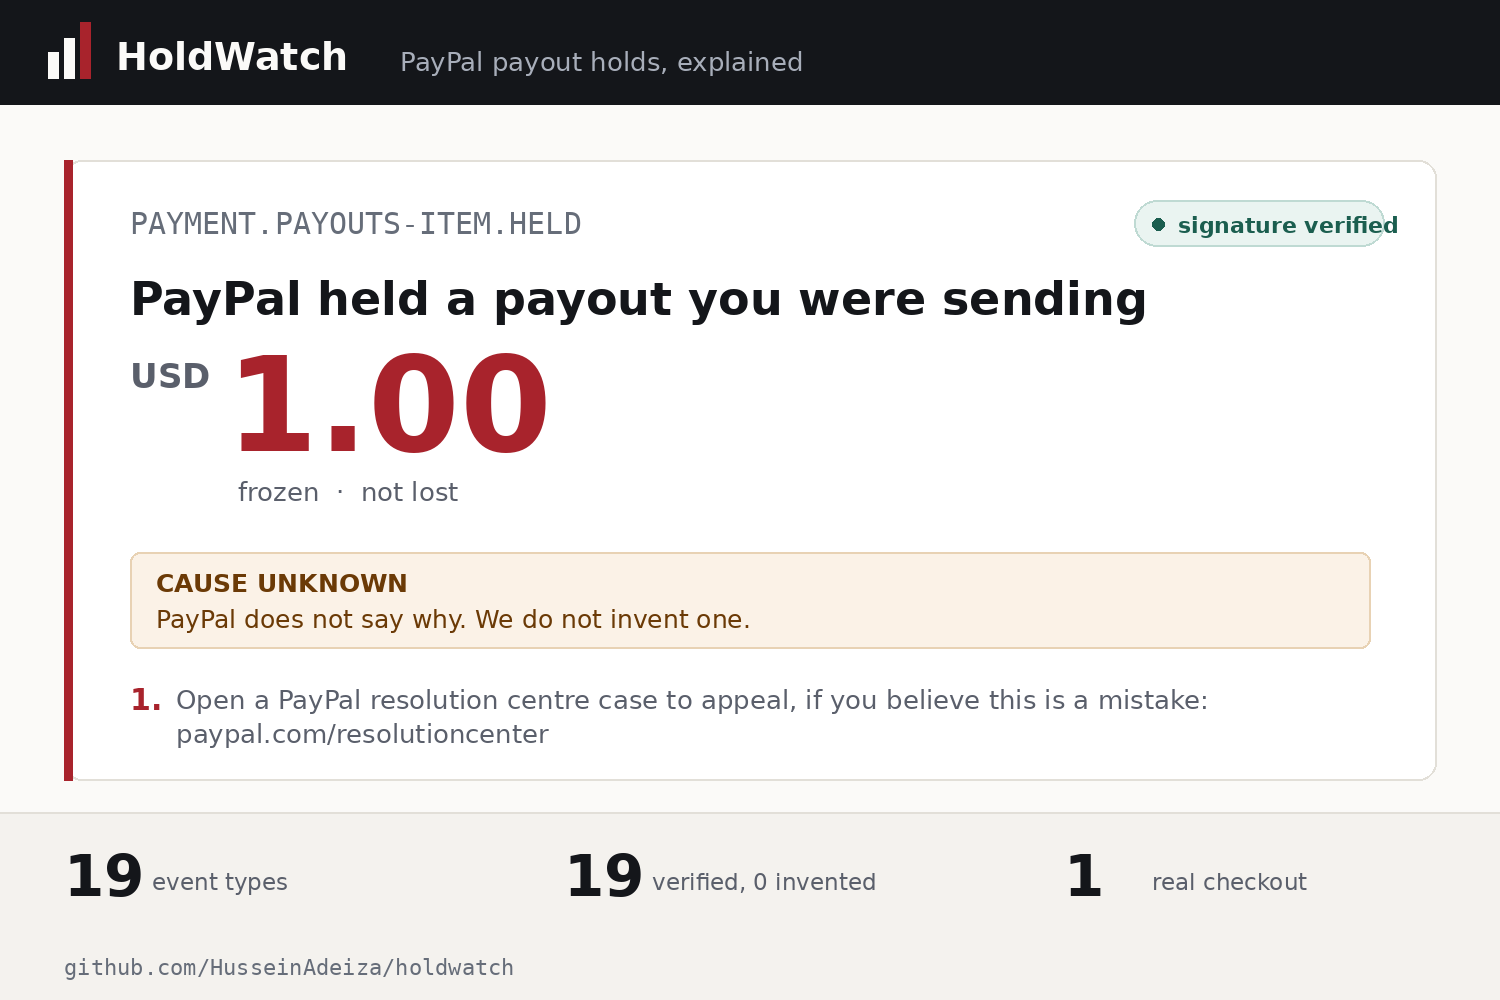
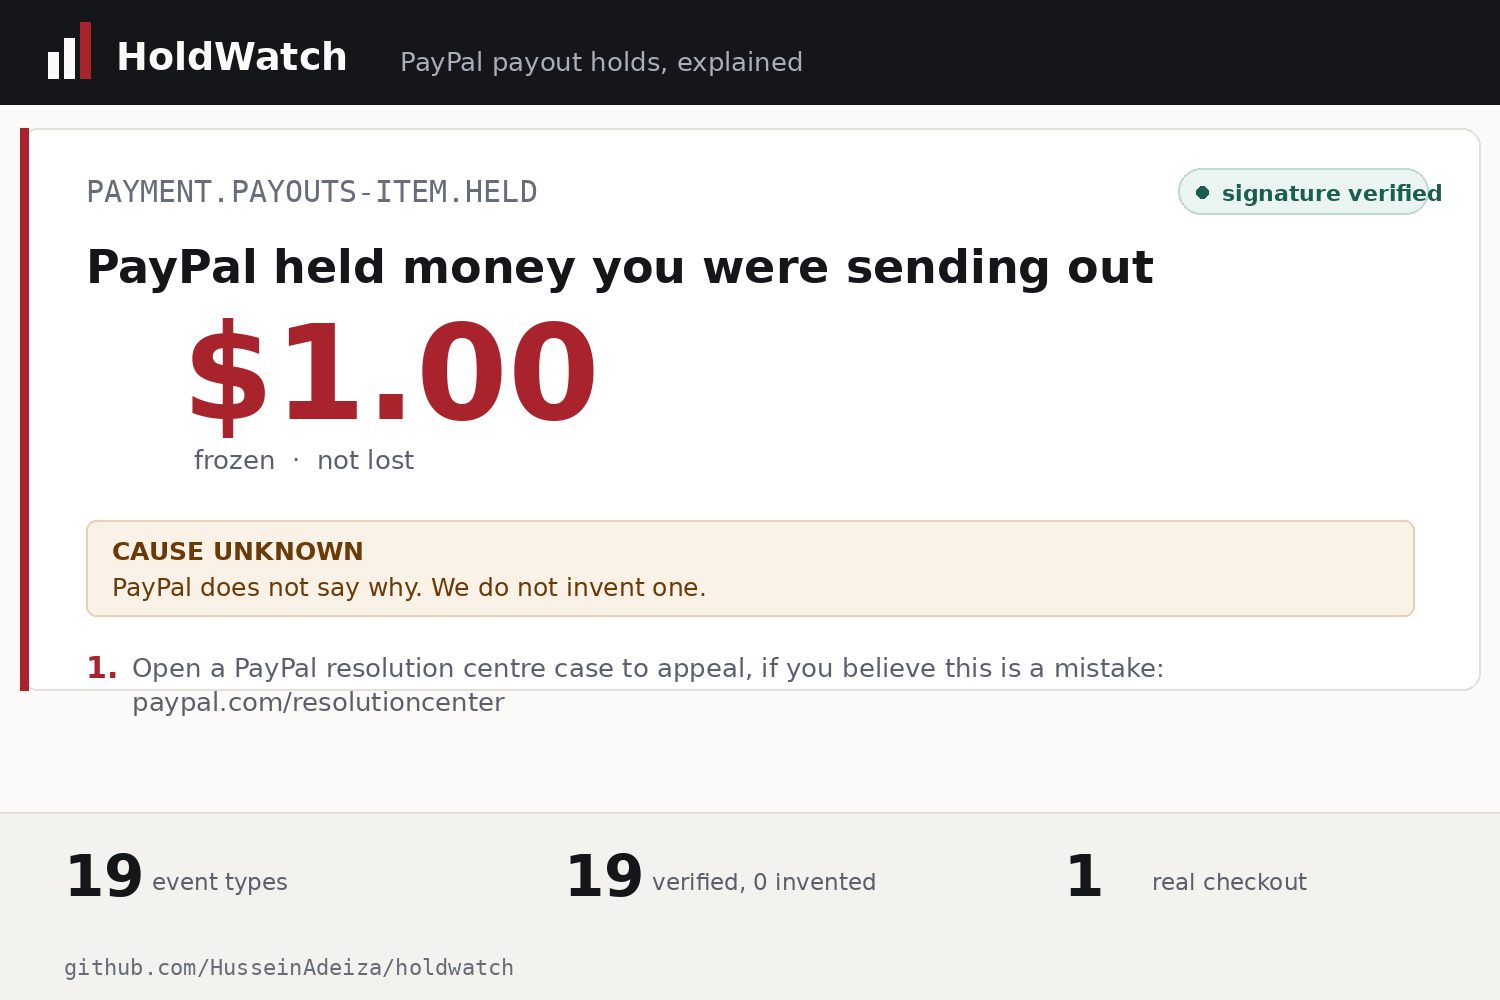
Fix confusing payout copy, and test a generated alternative
Design review flagged 'PayPal held a payout you were sending' as semantically
confusing: 'payout' normally reads as money coming IN, so pairing it with 'you
were sending' muddles the direction. Changed to 'PayPal held money you were
sending out' in explainer.py, so the fix reaches the dashboard, the video and
both thumbnails — all of them read the string rather than restating it.

Also added a $ to the figure in both thumbnails; it read as '1.00' without a
currency marker, which undercuts the financial framing.

Both thumbnails also gained bleed support so the flat version stays consistent
with the 3D one's fix.

Tried generating the thumbnail with image_generate as a comparison. It is
prettier in isolation but wrong for the job: 16:9 rather than 3:2, the card
occupies far less of the frame, and text that small does not survive 300px.
Kept the drawn versions, which bind to real product output and stay legible at
gallery size.

Regression: dashboard serves the new copy, rule-engine self-test PASS,
evaluation unchanged at 0.80 recall / 1.00 precision, outside reviewer PASS.

diff --git a/video/make_thumbnail.py b/video/make_thumbnail.py
@@ -73,7 +73,7 @@ def main() -> None:
            font=font(26), fill=(168, 174, 186))
 
     # ── the card: a real event, cropped tight ──────────────────────────────
-    cx0, cy0, cx1, cy1 = 64, 160, W - 64, 780
+    cx0, cy0, cx1, cy1 = 20, 128, W - 20, 690
     d.rounded_rectangle([cx0, cy0, cx1, cy1], radius=18, fill=RAISED,
                         outline=LINE, width=2)
     d.rectangle([cx0, cy0, cx0 + 8, cy1], fill=CRIT)   # severity edge
@@ -103,8 +103,7 @@ def main() -> None:
             "receiver": "beamdaddy@paypal.com",
         }
     })
-    d.text((x, cy0 + 196), "USD", font=font(34, True), fill=MUTED)
-    d.text((x + 96, cy0 + 168), "1.00", font=font(132, True), fill=CRIT)
+    d.text((x + 96, cy0 + 168), "$1.00", font=font(132, True), fill=CRIT)
     d.text((x + 108, cy0 + 316), "frozen  ·  not lost",
            font=font(26), fill=MUTED)
 

diff --git a/explainer.py b/explainer.py
@@ -68,7 +68,10 @@ A_DOCS = "Have delivery/proof-of-delivery documentation ready — it is what res
 # underlying reason through this payload. We say so rather than guessing.
 EXPLAINERS: dict[str, dict] = {
     "PAYMENT.PAYOUTS-ITEM.HELD": {
-        "headline": "PayPal held a payout you were sending",
+        # "a payout you were sending" was flagged as semantically confusing:
+        # "payout" usually reads as money coming IN, so pairing it with "you were
+        # sending" muddles the direction. "outbound payout" is unambiguous.
+        "headline": "PayPal held money you were sending out",
         "impact": "The money has left neither your balance nor the recipient. "
                   "It is frozen pending review.",
         "cause": None,

diff --git a/video/make_thumbnail3d.py b/video/make_thumbnail3d.py
@@ -161,8 +161,7 @@ def draw_face(bleed=0):
     d.text((x, y0 + 78), EXPLAINERS["PAYMENT.PAYOUTS-ITEM.HELD"]["headline"],
            font=font(34, True), fill=INK)
 
-    d.text((x, y0 + 146), "USD", font=font(26, True), fill=MUTED)
-    d.text((x + 74, y0 + 122), "1.00", font=font(104, True), fill=CRIT)
+    d.text((x + 74, y0 + 122), "$1.00", font=font(104, True), fill=CRIT)
     d.text((x + 84, y0 + 244), "frozen  ·  not lost", font=font(20), fill=MUTED)
 
     by, bh2 = y0 + 296, 86
